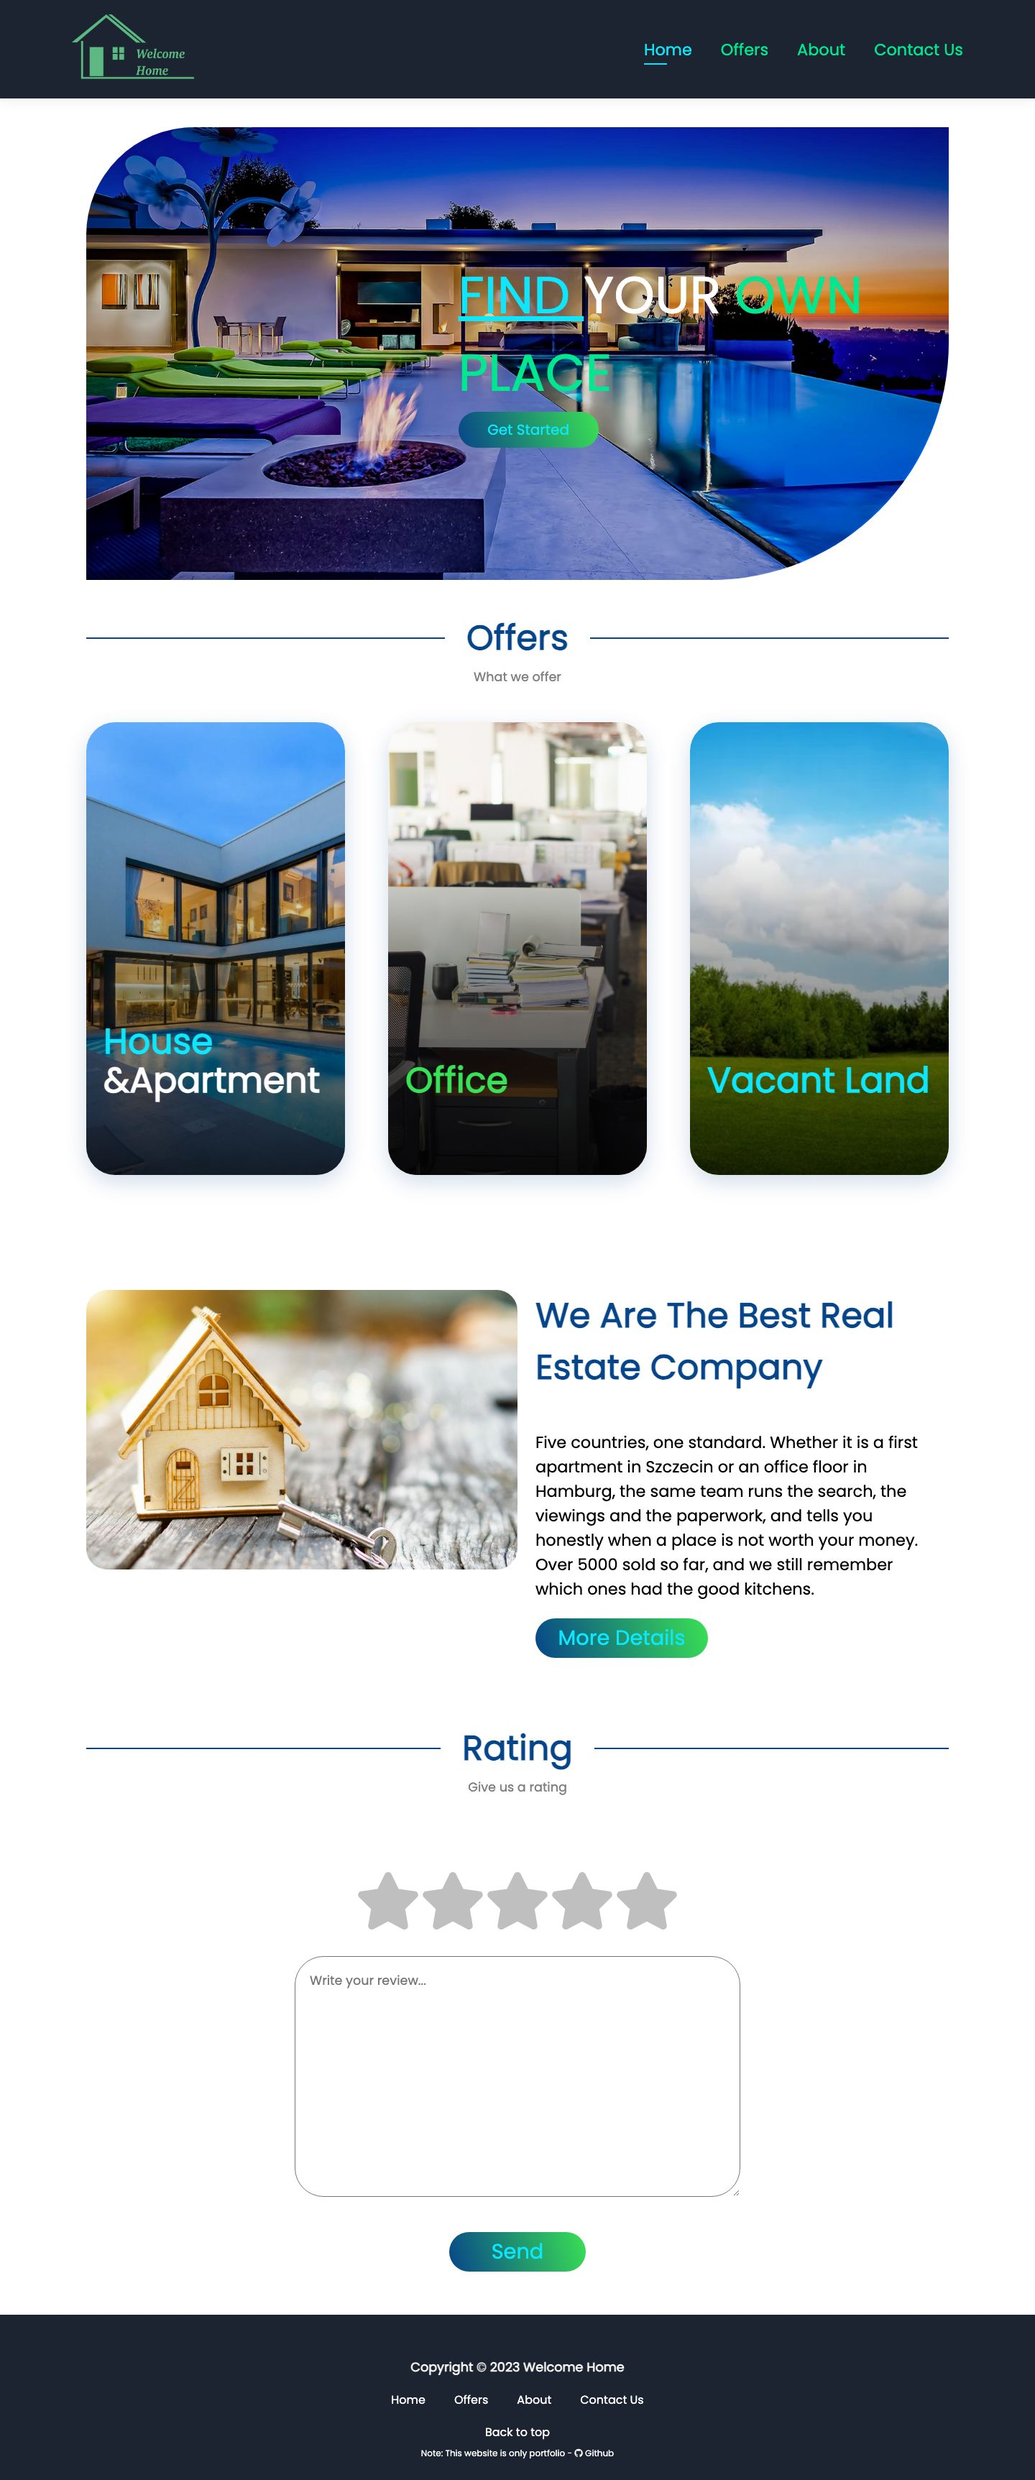
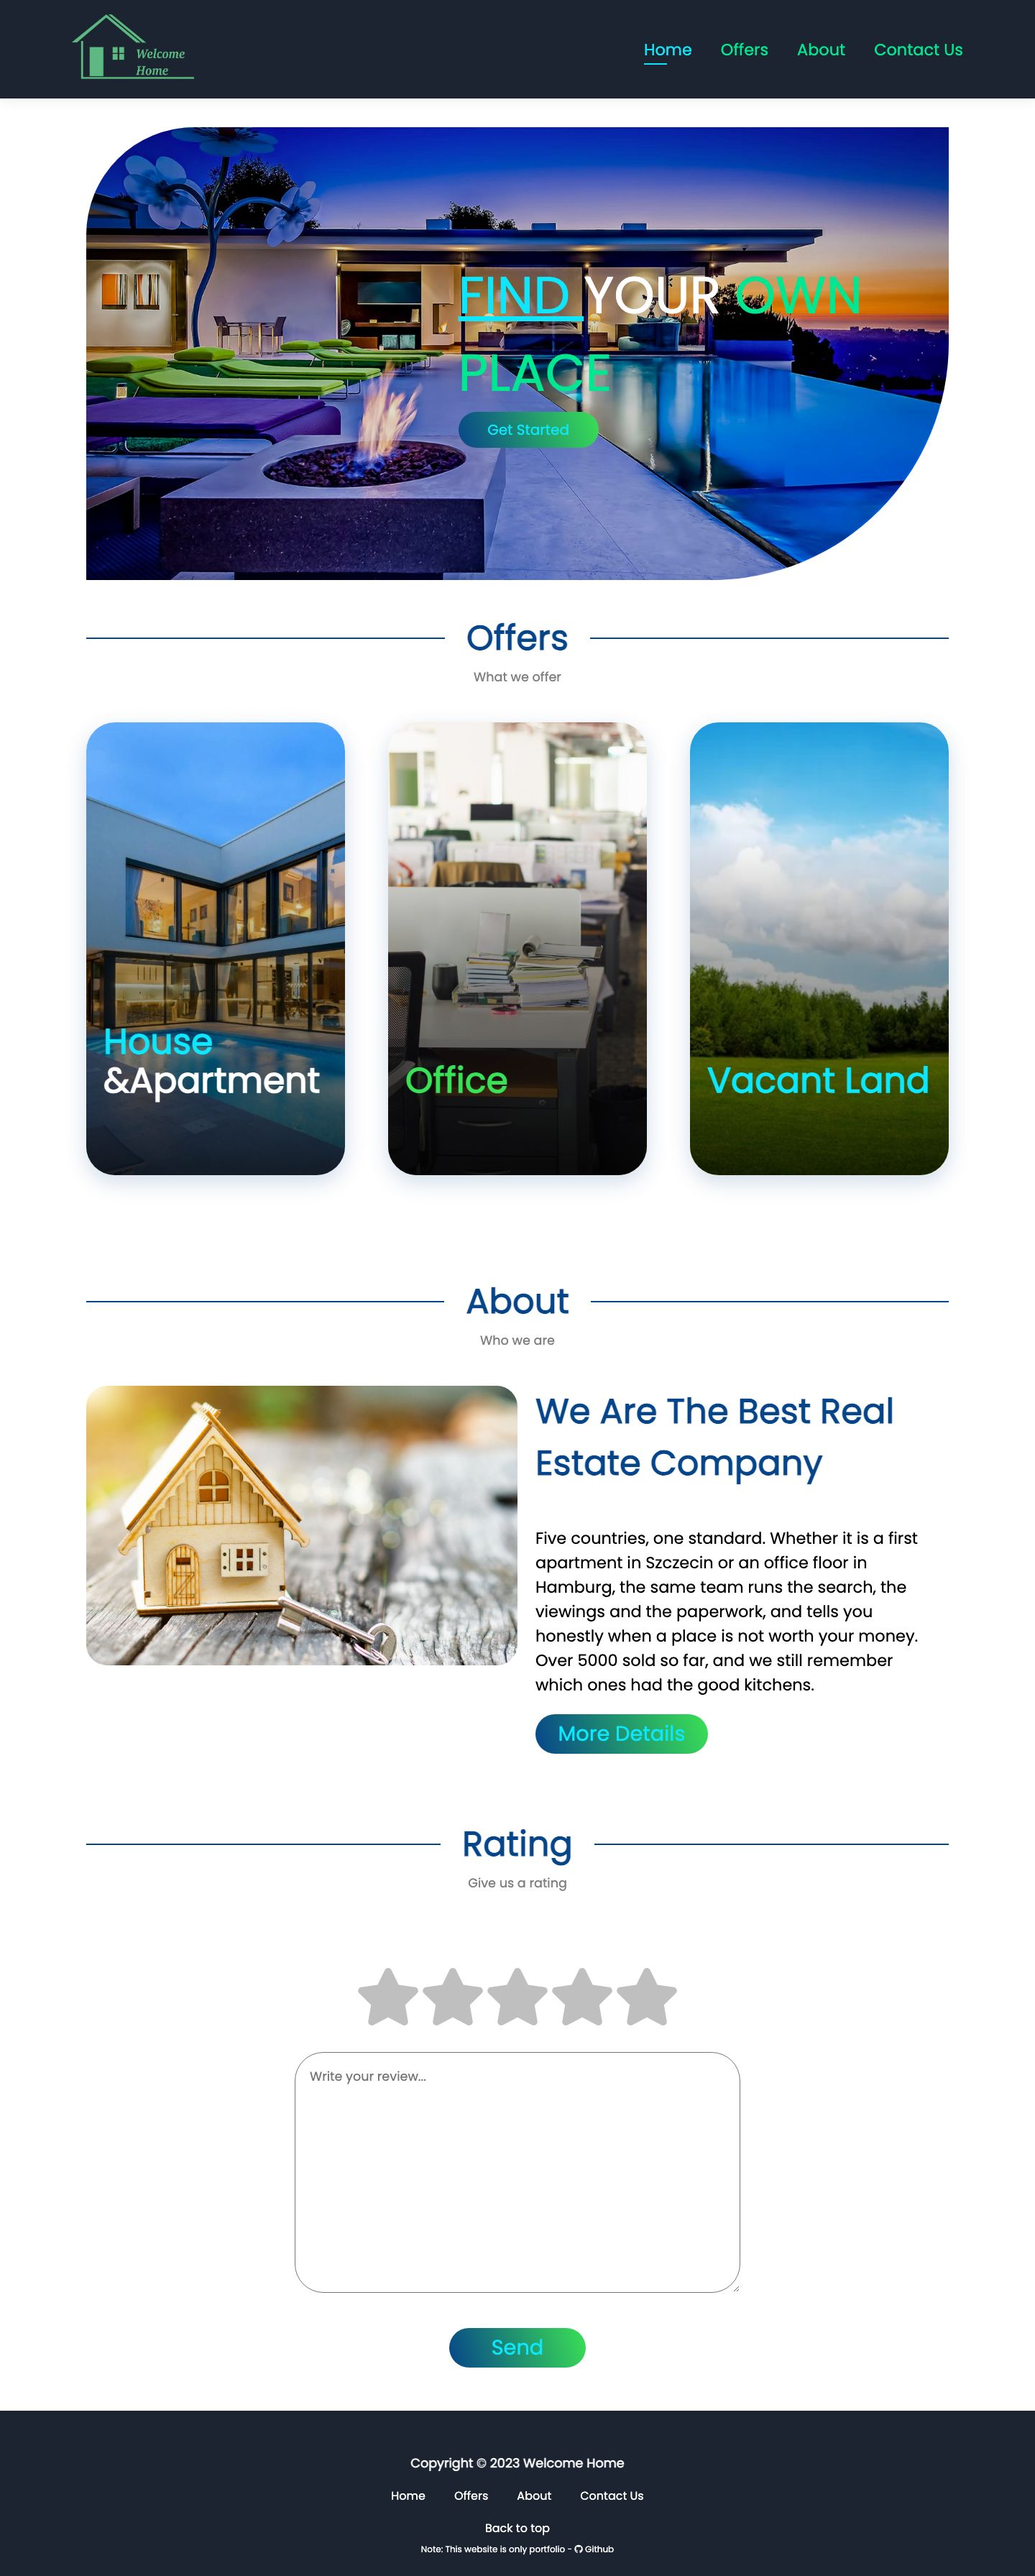
add missing element on home page / edit readme

Changed region(s): [[0.0625, 0.0, 0.9375, 0.8061], [0.6562, 0.279, 0.9375, 0.4961], [0.375, 0.8992, 0.625, 0.9922]]

diff --git a/src/components/Company/Company.css b/src/components/Company/Company.css
@@ -7,8 +7,39 @@
   flex-wrap: wrap;
 }
 
+/* same section header treatment as Offers and Rating */
+.company-desc {
+  width: 100%;
+}
+
+.company-desc h1 {
+  font-size: var(--SemiBigFontSize);
+  color: var(--headerColor);
+  text-align: center;
+  margin-top: 0;
+  display: flex;
+  align-items: center;
+  justify-content: center;
+  gap: 30px;
+}
+
+.company-desc h1::before,
+.company-desc h1::after {
+  content: "";
+  flex: 1;
+  height: 2px;
+  background: var(--headerColor);
+}
+
+.company-desc p {
+  font-size: var(--SmallFontSize);
+  color: var(--altSecondColor);
+  text-align: center;
+  margin-top: 5px;
+}
+
 .company-container {
-  margin-top: 20px;
+  margin-top: 50px;
   width: 100%;
 }
 .company_img {
@@ -64,6 +95,15 @@
     flex-direction: column;
     align-items: center;
     height: auto;
+  }
+
+  .company-desc h1 {
+    font-size: var(--MediumFontSize);
+  }
+
+  .company-desc h1::before,
+  .company-desc h1::after {
+    display: none;
   }
 
   .company_img {

diff --git a/src/components/StarRating/StarRating.css b/src/components/StarRating/StarRating.css
@@ -96,6 +96,10 @@
     padding: 0 12px 40px 12px;
   }
 
+  .star_rating h1 {
+    font-size: var(--MediumFontSize);
+  }
+
   .star_rating h1::before,
   .star_rating h1::after {
     display: none;
@@ -115,9 +119,6 @@
   .star-hover {
     width: 75px;
     height: 75px;
-  }
-  .star_rating h1 {
-    font-size: var(--MediumFontSize);
   }
 
   .star_rating p {

diff --git a/src/components/Company/Company.jsx b/src/components/Company/Company.jsx
@@ -9,6 +9,10 @@ import "./Company.css";
 const Company = () => {
   return (
     <section className="company fade-bottom">
+      <div className="company-desc">
+        <h1>About</h1>
+        <p>Who we are</p>
+      </div>
       <div className="company-container">
         <img
           src={CompanyImg}

diff --git a/src/components/OffersHome/Offers.css b/src/components/OffersHome/Offers.css
@@ -171,6 +171,7 @@
 
   .offers h1 {
     width: 100%;
+    font-size: var(--MediumFontSize);
   }
 
   .offers h1::before,
